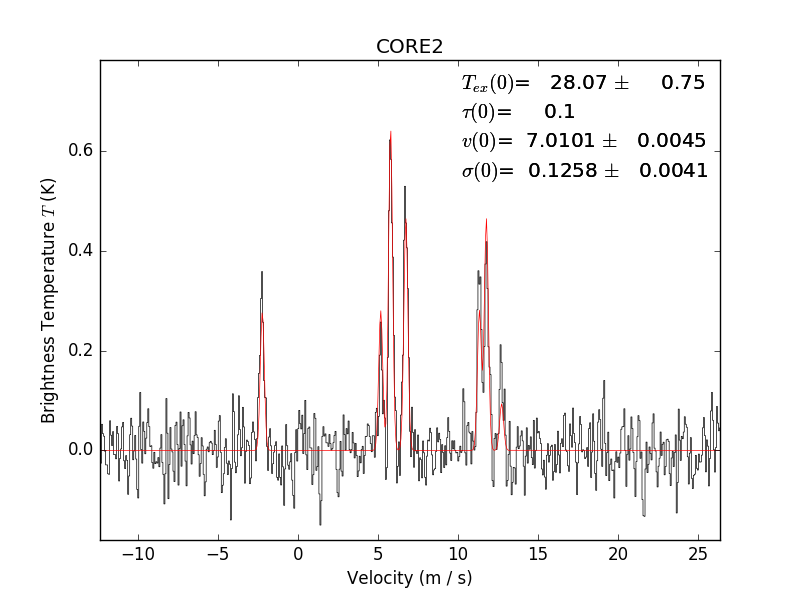
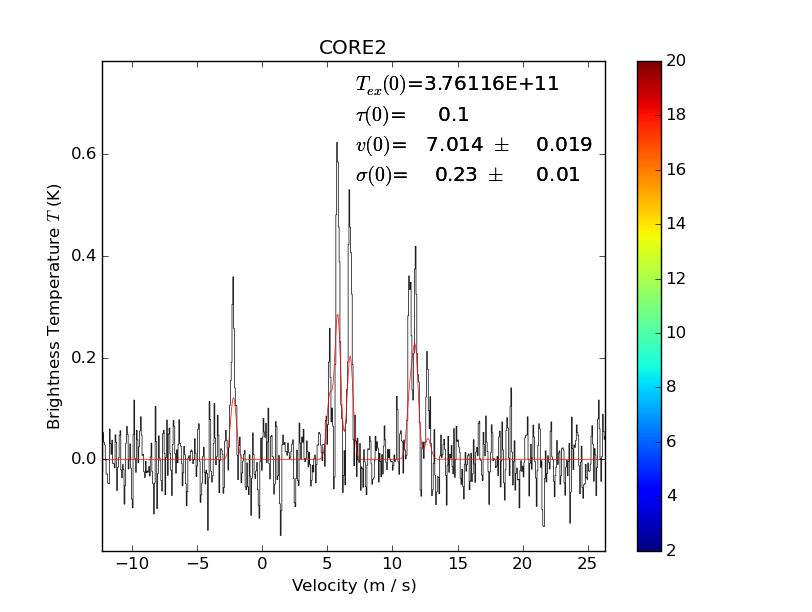
First commit

Changed region(s): [[0.0938, 0.06, 0.9062, 0.99], [0.0312, 0.3, 0.125, 0.72], [0.0625, 0.24, 0.125, 0.27]]

diff --git a/n2hp-test.py b/n2hp-test.py
@@ -1,0 +1,25 @@
+import pyspeckit
+from pyspeckit.spectrum.models import n2hp
+import numpy as np
+
+import astropy.units as u
+
+cube = pyspeckit.Spectrum('73-core2_N2Hp.fits')
+rms=0.046
+cube.error[:] = rms
+cube.xarr.refX = 93173.772e6*u.Hz
+cube.xarr.velocity_convention = 'radio'
+cube.xarr.convert_to_unit('km/s')
+F=False
+T=True
+import matplotlib.pyplot as plt
+plt.ion()
+cube.Registry.add_fitter('n2hp_vtau', pyspeckit.models.n2hp.n2hp_vtau_fitter,4)
+cube.specfit(fittype='n2hp_vtau', guesses=[3.94, 0.1, 0, 0.309], 
+    verbose_level=4, signal_cut=3, limitedmax=[F,T,T,T], limitedmin=[T,T,T,T], 
+    minpars=[0, 0, -1, 0.05], maxpars=[30.,50.,1,1.0], fixed=[F,T,F,F])
+cube.plotter(errstyle='fill')
+cube.specfit.plot_fit()
+#set mode x -4 16
+#set mode y -0.2 2.2
+plt.savefig('N2Hp_pyspeckit_fit.png')

diff --git a/fit_lineprofilesH.py b/fit_lineprofilesH.py
@@ -10,10 +10,10 @@ from skimage.morphology import remove_small_objects,closing,disk,opening
 
 # Optically thin
 Optically_Thin      =False
-Show_Optically_Thin =False
+Show_Optically_Thin =True
 # Optically thick
-Optically_Thick     =True
-Show_Optically_Thick=True
+Optically_Thick     =False
+Show_Optically_Thick=False
 
 file_in='data/Core2_N2Hp_10.fits'
 freq_line=93173.3920e6*u.Hz
